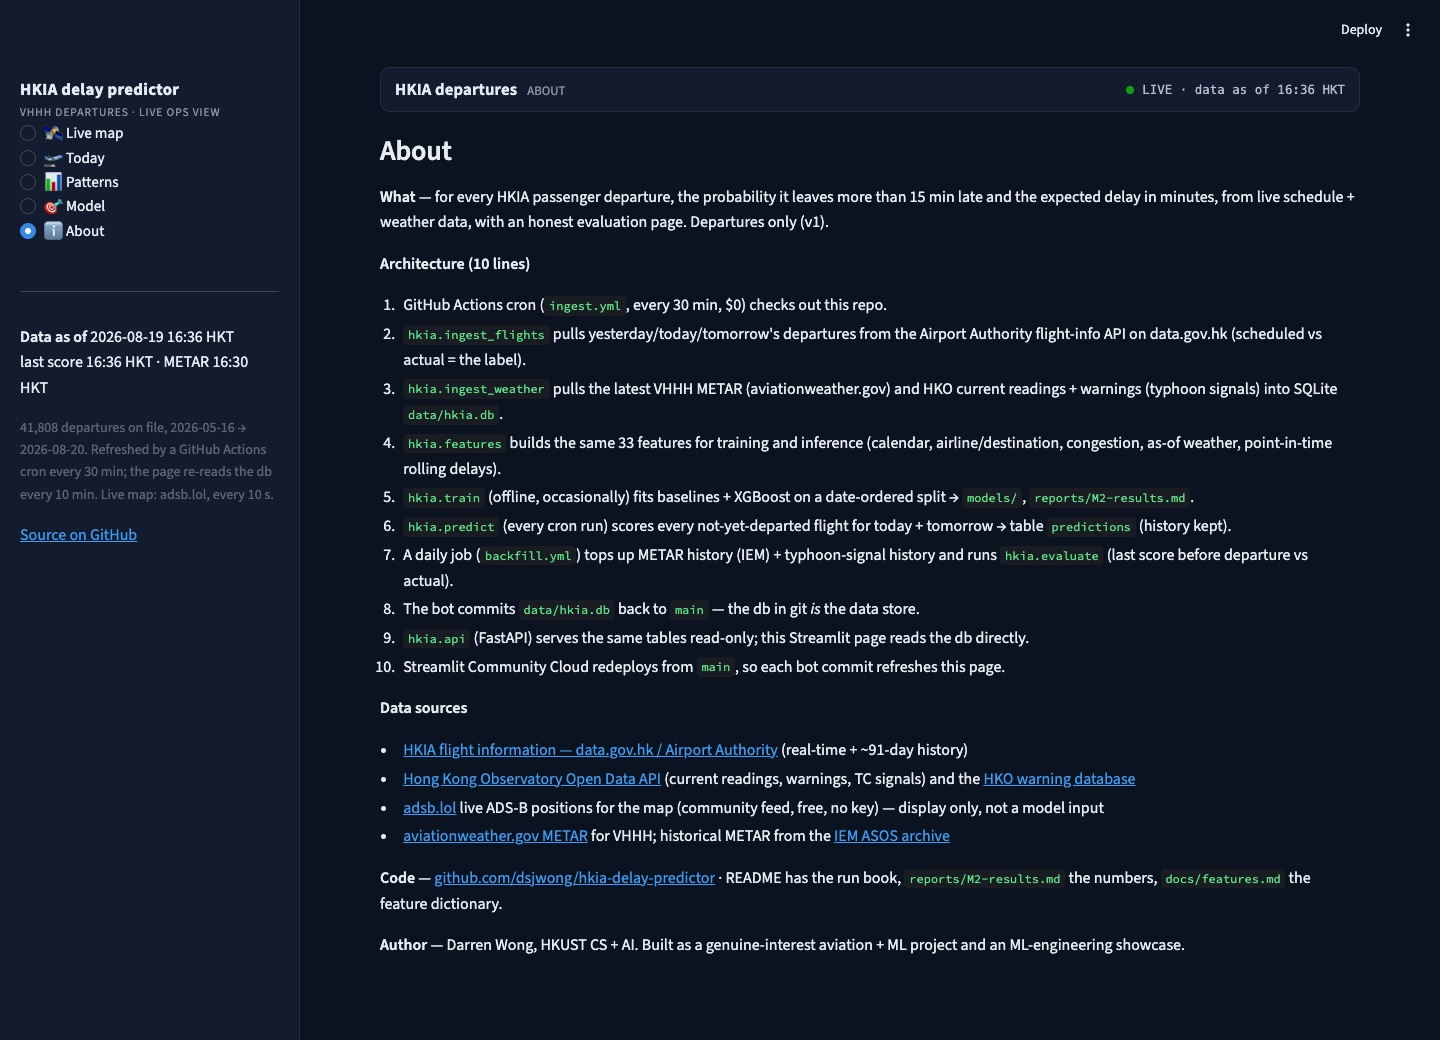
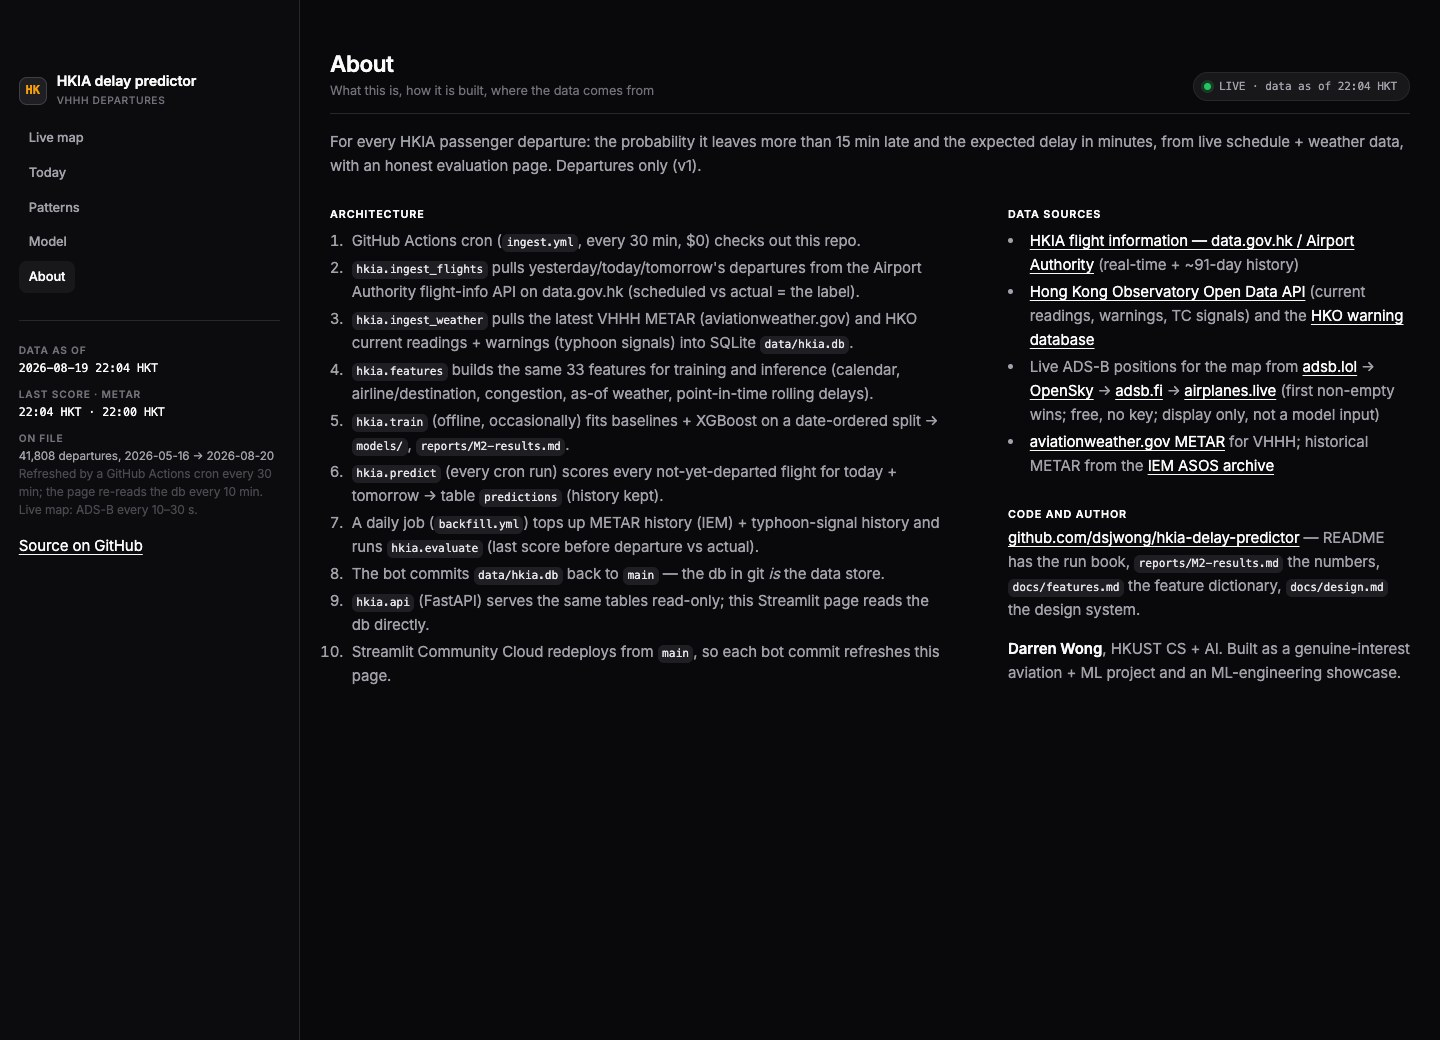
docs: design notes (zinc tokens, type, spacing, colour meaning), re-shot dashboard screenshots, README dashboard + ADS-B provider chain; chart cards painted by plotly paper

diff --git a/app/theme.py b/app/theme.py
@@ -88,11 +88,11 @@ def register_template() -> None:
     t = go.layout.Template(pio.templates["plotly_dark"])
     axis_font = dict(size=11, color=INK_2)
     t.layout.update(
-        paper_bgcolor="rgba(0,0,0,0)", plot_bgcolor="rgba(0,0,0,0)",
+        paper_bgcolor=SURFACE_2, plot_bgcolor="rgba(0,0,0,0)",
         font=dict(family=FONT, size=12, color=INK_2),
         title=dict(font=dict(family=FONT, size=13, color=INK, weight=500), x=0, xanchor="left", yref="container", y=0.985, yanchor="top"),
         colorway=CATEGORICAL,
-        margin=dict(l=8, r=8, t=64, b=8),
+        margin=dict(l=16, r=16, t=64, b=16),
         hoverlabel=dict(bgcolor=SURFACE_3, bordercolor=BORDER_2, font=dict(family=FONT, size=12, color=INK)),
         legend=dict(bgcolor="rgba(0,0,0,0)", orientation="h", yanchor="bottom", y=1.0, x=0, font=dict(size=11, color=INK_2),
                     itemsizing="constant"),
@@ -203,8 +203,7 @@ div[data-testid="stExpander"] details {{ border: 1px solid {BORDER}; border-radi
 div[data-testid="stExpander"] summary p {{ font-size: 0.86rem; font-weight: 500; color: {INK_2}; }}
 div[data-testid="stDataFrame"] {{ border: 1px solid {BORDER}; border-radius: {RADIUS}px; overflow: hidden; }}
 div[data-testid="stAlert"] {{ border-radius: {RADIUS}px; }}
-div[data-testid="stPlotlyChart"] {{ background: {SURFACE_2}; border: 1px solid {BORDER}; border-radius: {RADIUS}px; padding: 8px 8px 4px 8px; }}
-div[data-testid="stPlotlyChart"] .js-plotly-plot, div[data-testid="stPlotlyChart"] .plot-container {{ overflow: visible; }}
+div[data-testid="stPlotlyChart"] {{ background: {SURFACE_2}; border: 1px solid {BORDER}; border-radius: {RADIUS}px; overflow: hidden; }}
 div[data-testid="stDeckGlJsonChart"] {{ border: 1px solid {BORDER}; border-radius: {RADIUS}px; overflow: hidden; }}
 div[data-testid="stDeckGlJsonChart"] canvas {{ border-radius: {RADIUS}px; }}
 /* progress bars in tables pick up the accent */

diff --git a/docs/design.md b/docs/design.md
@@ -1,70 +1,23 @@
-# Web app design system (`web/`)
+# Dashboard design notes
 
-Neutral dark-grey, one warm accent. The goal is a product look (Linear / Vercel dashboard / shadcn "zinc"), not a themed radar
-screen: quiet surfaces, hairline borders, Inter, tight headings, tabular figures, and colour that always *means* something.
+Neutral dark-grey system (shadcn/ui "zinc" dark; the Linear / Vercel-dashboard look). Tokens live in `app/theme.py` and are
+mirrored in `.streamlit/config.toml` — change both together. The React app in `web/` uses the same tokens.
 
-## Library choice
-- **shadcn/ui-style primitives written in-repo** (`web/src/components/ui/`: button, badge, card, tile, tooltip, sheet, segmented,
-  skeleton, empty) on top of Tailwind 4 + `class-variance-authority` + `tailwind-merge`, and **Recharts** for every chart, with one shared
-  theme (`web/src/charts/theme.tsx`, `tokens.ts`). The zinc token values are shadcn's own.
-- **Tremor was evaluated and rejected** (decided at the start of the overhaul): `@tremor/react` 3.18 peer-depends on React 18 and needs
-  the Tailwind 3 preset/config; the app is React 19 + Tailwind 4 (CSS-first `@theme`), so it would have meant a second Tailwind pipeline
-  for ~6 components we already have. Tremor "Raw" is copy-paste code that also relies on Radix + Recharts — the in-repo primitives are
-  the same idea with fewer bytes. `npx shadcn add` was not needed: no Radix dependency, the seven primitives are ~250 lines total and
-  keyboard/ARIA behaviour is hand-checked (Esc closes the sheet, arrow keys move the segmented control, every icon button has an
-  `aria-label`).
-- **Inter** is bundled via `@fontsource-variable/inter` (latin subset ~48 KB woff2, loaded by `unicode-range`; no external font CDN;
-  `system-ui` fallback in the stack).
-
-## Tokens (`web/src/index.css` `@theme`, mirrored in `web/src/lib/theme.ts`)
-| token | value | use |
-|---|---|---|
-| `bg` | `#09090b` zinc-950 | page |
-| `card` | `#18181b` zinc-900 | cards, panels, sticky table header |
-| `elev` | `#1f1f23` | inputs, hover rows, tooltips, skeletons |
-| `elev-2` | `#27272a` zinc-800 | pressed / selected |
-| `border` | `#27272a` zinc-800 | hairlines (1 px everywhere) |
-| `border-2` | `#3f3f46` zinc-700 | focused input, stronger separators |
-| `ink` / `ink-2` / `muted` | `#fafafa` zinc-50 / `#a1a1aa` zinc-400 / `#71717a` zinc-500 | primary / secondary / tertiary text, axis ticks |
-| `accent` | `#f59e0b` amber-500 | **P(delay > 15) only** (bars, tile tone, selected-plane ring, KPI that *is* a delay figure) |
-| `good` | `#22c55e` | LIVE dot, "departed", hit |
-| `warning` | `#f59e0b` | HKO warnings / typhoon callout (same amber family — weather is a delay driver) |
-| `critical` | `#ef4444` | cancelled, STALE, feed down |
-
-No blue chrome anywhere; links are `ink` with a `border-2` underline.
-
-### Colour meaning in charts (`web/src/charts/tokens.ts`)
-- Categorical slots, fixed order, **validated** with the dataviz skill's `validate_palette.js` on `#18181b` (dark): `SERIES_1 #d97706`
-  amber-600 (model / predicted / single-series bars), `SERIES_2 #0d9488` teal-600 (observed / actual / TC-signal days), `SERIES_3 #8b5cf6`,
-  `SERIES_4 #db2777` — all five checks PASS (worst adjacent CVD ΔE 10.4, normal-vision 24.3, ≥ 3:1 contrast).
-- `AMBER_RAMP` `#78350f → #b45309 → #d97706 → #f59e0b → #fcd34d`: P(delay > 15) 0 → 1 — plane icons, PBar, flight-card hero figure.
-- `HEAT_RAMP` `#2a1a08 → #f7c55a`: heatmap magnitude (mean delay / late share) — same hue so "more amber = more delay" holds app-wide.
-- `NEUTRAL #52525b` for reference lines (perfect-calibration diagonal, P = 0.5 line). Grid `#27272a` solid hairline, no dashes. One axis
-  per chart; legends for ≥ 2 series; `TipBox` tooltip on every mark; text always in text tokens.
-- Map: other traffic zinc-500 → zinc-100 by altitude, tracked-not-scored zinc-50, tracked-scored amber ramp, hover ring zinc-50, selected
-  ring amber, rings zinc-400 @ 22 %, HKIA marker amber.
-
-## Type scale
-Inter Variable, `cv11`+`ss01` features. Page title `text-xl font-semibold tracking-tight`; card title `text-sm font-semibold`; body
-`text-sm`; meta `text-xs text-muted`; kicker `.hk-kicker` = 0.7 rem uppercase 0.06 em zinc-500; KPI value 1.6 rem semibold
-`tracking -0.02em` (proportional figures); tables / axis ticks / times `tabular-nums` (`.hk-num`); METAR and feed chips `font-mono`.
-
-## Spacing & shape
-8-px grid (`gap-3` tiles, `gap-4` chart grid, `space-y-5` page sections, `p-4` card padding); card radius 12 px (`--radius-card`), inputs
-and buttons 6–8 px, pills full; hairline borders only — no shadows on cards, no gradients, no glows (the only shadow is under popovers /
-the sheet).
-
-## Layout
-- App shell: 48-px sticky top bar (wordmark · quiet tabs with a 1-px underline · LIVE pill with data-as-of HKT · GitHub icon); no sidebar;
-  on `< md` the nav becomes a fixed bottom tab bar with lucide icons.
-- **Live map**: map fills `100dvh − header`; floating translucent panels (`.hk-glass` = card @ 80 % + `backdrop-blur`): top-left stat chips
-  (aircraft in range, tracked departures, feed provider + age in seconds), right 372-px panel (METAR strip → tracked departures → recent
-  departures; selecting a plane or a row slides the flight card into the same panel), legend bottom-left above the attribution, zoom
-  control bottom-right (offset clear of the panel). On `< lg` the map is 58 dvh and the panel stacks beneath it.
-- Other routes: `max-w-[1400px]` container, title row, KPI tile row, 2-column card grid of charts, tables in cards with a sticky header and
-  their own scroll region. Every async block has a skeleton (`Skeleton*`) and an `Empty` / error state.
-
-## Accessibility
-`:focus-visible` 2-px zinc-50 ring; segmented controls are `role=group` with arrow-key movement; list rows are real `<button>`s or
-`role=button` rows with Enter/Space; all icon buttons carry `aria-label`; `prefers-reduced-motion` disables the LIVE pulse, skeleton
-shimmer, sheet slide and the plane dead-reckoning glide (positions then jump per poll).
+- **Tokens.** Page `#09090b` (zinc-950) · cards / sidebar `#18181b` (zinc-900) · elevated (code, tooltips, hover) `#1f1f23` ·
+  hairline border `#27272a` (zinc-800), hover border `#3f3f46` · text `#fafafa` / `#a1a1aa` / `#71717a` (zinc-50 / 400 / 500).
+  One accent, amber `#f59e0b`; status colours (`#22c55e` good, `#f59e0b` warning, `#ef4444` critical) are reserved for badges, never series. No blue in chrome.
+- **What each colour means.** Amber = P(delay > 15) and anything the model predicts (tracked departures on the map via the ramp
+  `#6b4608 → #ffbf3d`, prediction series in charts as `#c9820c`, progress bars, selected nav / widgets). Zinc = observed, neutral or
+  other (other traffic on the map `#a1a1aa → #f4f4f5` by altitude, single-series magnitude bars `#a1a1aa`, the heatmap ramp
+  `#45454c → #ececef`). Green dot = live feed. Blue `#3d87e0` appears only as the neutral categorical for "tracked, not scored".
+  Every palette is validated with the dataviz skill's `validate_palette.js` on `#09090b`: categorical `#c9820c #3d87e0 #14a88d #9b6fe0`
+  adjacent ALL PASS (worst CVD dE 14.0, normal 17.4), first three all-pairs PASS; amber ramp PASS (light end 2.37:1, hue spread 8 deg); zinc ramp PASS.
+- **Type.** Inter (system-ui fallback) at tight tracking (-0.006 em body, -0.02 em titles); scale 24 / 17 / 15 / 13 / 11 px —
+  page title 600, section labels 11 px small-caps zinc-500 with 0.08 em tracking, captions 13 px zinc-500 and never more than one line.
+  Numbers (metric tiles, METAR, badges, "data as of") in the system mono stack.
+- **Spacing and surfaces.** 8-px grid (8 / 16 / 24 / 32); cards and charts 12-px radius with a 1-px `#27272a` border, no shadow, no glow;
+  metric tiles are uniform cards (label / big mono number / muted caption); tables have subtle row lines, no zebra; Streamlit's coloured
+  header strip, toolbar and footer are hidden; the sidebar is wordmark + nav + "data as of" block.
+- **Charts.** One plotly template (`hkia_zinc`): card-coloured paper, transparent plot, hairline `#27272a` y-grid only, zinc-400 ticks,
+  1.5-px lines, 2-px gaps between bars and cells, legend for every chart with >= 2 series, text never in the series colour, no dual axes.
+  Live map: CARTO dark-matter basemap (grey), map >= 70 % of the row, compact legend strip under the map, tiles / METAR / tracked table on the right.

diff --git a/README.md b/README.md
@@ -1,6 +1,6 @@
 # HKIA Flight Delay Predictor
 
-Predicting departure delays at Hong Kong International Airport from live flight and weather data — an ML-engineering showcase built on real, free, public data. **Live web app: https://dsjwong.github.io/hkia-delay-predictor/** (static React, GitHub Pages) · **Streamlit dashboard: https://hkia-delays.streamlit.app** (fallback) — a live aircraft map around HKIA (adsb.lol) with today's departures highlighted by predicted delay, today's departures with delay predictions, 91-day delay patterns, and an honest model-performance page, refreshed automatically every ~30 minutes from GitHub Actions.
+Predicting departure delays at Hong Kong International Airport from live flight and weather data — an ML-engineering showcase built on real, free, public data. **Live web app: https://dsjwong.github.io/hkia-delay-predictor/** (static React, GitHub Pages) · **Streamlit dashboard: https://hkia-delays.streamlit.app** (fallback) — a live aircraft map around HKIA (ADS-B) with today's departures highlighted by predicted delay, today's departures with delay predictions, 91-day delay patterns, and an honest model-performance page, refreshed automatically every ~30 minutes from GitHub Actions.
 
 - **What**: for each HKIA passenger departure, predict P(delay > 15 min) / expected delay minutes, served on a public dashboard with honest evaluation numbers. v1 = departures only.
 - **Data** (3 sources, all free): Airport Authority flight info API via data.gov.hk (scheduled vs actual departure = label; ~91-day rolling history), Hong Kong Observatory open data (current readings, warnings incl. typhoon signals), METAR for VHHH from aviationweather.gov. OpenSky ADS-B is a deferred stretch.
@@ -36,21 +36,21 @@ The committed `data/hkia.db` carries the live tables, the weather backfill table
 | `GET /weather/latest` | latest METAR + latest HKO current readings and warnings |
 
 ### Dashboard (`streamlit run app/streamlit_app.py`)
-Five pages in a dark ops/radar look, HKT everywhere, "data as of" (last ingest) in the header and sidebar; reads `data/hkia.db` + `models/` + `reports/` directly, never scores. Code: `app/streamlit_app.py` (shell), `app/theme.py` (palette, CSS, shared plotly template), `app/charts.py`, `app/live_map.py`, `app/page_*.py`.
+Five pages in a neutral zinc-dark design system (shadcn/ui-style tokens, Inter, one amber accent for P(delay) — see [`docs/design.md`](docs/design.md)), HKT everywhere, "data as of" (last ingest) in the title row and sidebar; reads `data/hkia.db` + `models/` + `reports/` directly, never scores. Code: `app/streamlit_app.py` (shell), `app/theme.py` (palette, CSS, shared plotly template), `app/charts.py`, `app/live_map.py`, `app/page_*.py`.
 
 | page | shows |
 |---|---|
-| Live map (landing) | every aircraft within 100 nm of VHHH from the free [adsb.lol](https://api.adsb.lol/) ADS-B feed (refreshed every 10 s, plane icons rotated by track, grey→white by altitude), with **today's HKIA departures highlighted** — matched by ICAO airline code + flight number (`CPA261` ↔ `CX 261`), coloured by their latest P(delay > 15) on an amber ramp, tooltip with flight / destination / sched / actual / P / predicted minutes; side panel with counts, tracked-departure table, METAR + HKO warning strip; falls back to the last good frame if the feed is down |
+| Live map (landing) | every aircraft within 100 nm of VHHH from a free ADS-B provider chain — [adsb.lol](https://api.adsb.lol/) → [OpenSky](https://opensky-network.org/) anonymous bbox → [adsb.fi](https://adsb.fi/) → [airplanes.live](https://airplanes.live/), first non-empty wins (adsb.lol returns an empty list from Streamlit Cloud's egress IP, so OpenSky usually serves there; refresh 10 s for the readsb family, 30 s for OpenSky; status badge names the provider + fetch age, last good frame kept when everything is empty; plane icons rotated by track, zinc→white by altitude), with **today's HKIA departures highlighted** — matched by ICAO airline code + flight number (`CPA261` ↔ `CX 261`), coloured by their latest P(delay > 15) on an amber ramp, tooltip with flight / destination / sched / actual / P / predicted minutes; side panel with counts, tracked-departure table, METAR + HKO warning strip; falls back to the last good frame if the feed is down |
 | Today | date picker (today / tomorrow / back 90 days), metric tiles (flights, predicted share > 15 min late, observed so far, METAR, HKO warnings / TC signal), timeline strip of every scored flight (scheduled time × P, departed vs pending), predicted-vs-observed late share by hour, filterable table (airline, hour range, not-yet-departed) with P(delay > 15) as a progress bar, predicted minutes and — for departed flights — actual delay and a hit/miss mark |
 | Patterns | 91-day history: hour × weekday heatmap (mean delay or % > 15), ranked bars for airlines (share > 15, n ≥ 50, top 15) and top destinations (mean delay), small multiples of delay by hour for the top 4 airlines, typhoon-days callout, mean delay per day with TC-signal days highlighted; full tables in an expander |
 | Model | M2 test metrics as tiles (AUC / Brier / log loss / MAE vs the airline × hour baseline, full table in an expander), reliability diagram, gain feature importance, ablation, **live evaluation** (rolling 7-day AUC/Brier/MAE once ≥ 100 matured predictions), how-to-read + limitations |
 | About | 10-line architecture, data sources, repo, author |
 
-Palette (validated with the dataviz skill's `validate_palette.js` on the `#0b1220` surface): categorical `#3987e5 #d95926 #199e70 #c98500` (adjacent pairs PASS; first three all-pairs PASS), P(delay) amber ramp `#6b4608 → #ffbf3d` (ordinal PASS), heatmap blue ramp `#184f95 → #9ec5f4` (PASS); status colours reserved for warnings.
+Palette (validated with the dataviz skill's `validate_palette.js` on the `#09090b` surface): categorical `#c9820c #3d87e0 #14a88d #9b6fe0` (adjacent pairs PASS, worst CVD ΔE 14.0; first three all-pairs PASS), P(delay) amber ramp `#6b4608 → #ffbf3d` (ordinal PASS), heatmap zinc ramp `#45454c → #ececef` (PASS); status colours reserved for badges. Amber = the model's prediction, zinc = observed / other.
 
 Deploy: Streamlit Community Cloud from `main`, main file `app/streamlit_app.py` — exact steps in [`docs/deploy.md`](docs/deploy.md). Because the bot commits the DB every 30 min, each commit redeploys the app with fresh data. Live: https://hkia-delays.streamlit.app
 
-Live map data: [adsb.lol](https://adsb.lol) community ADS-B feed (free, no key; display only — not a model input). Basemap © [CARTO](https://carto.com/attributions) © OpenStreetMap contributors.
+Live map data: community ADS-B feeds (adsb.lol, OpenSky, adsb.fi, airplanes.live — free, no key; display only — not a model input). Basemap © [CARTO](https://carto.com/attributions) © OpenStreetMap contributors.
 
 ![Live map](docs/img/dashboard-live.jpg)
 ![Today](docs/img/dashboard-today.jpg)
